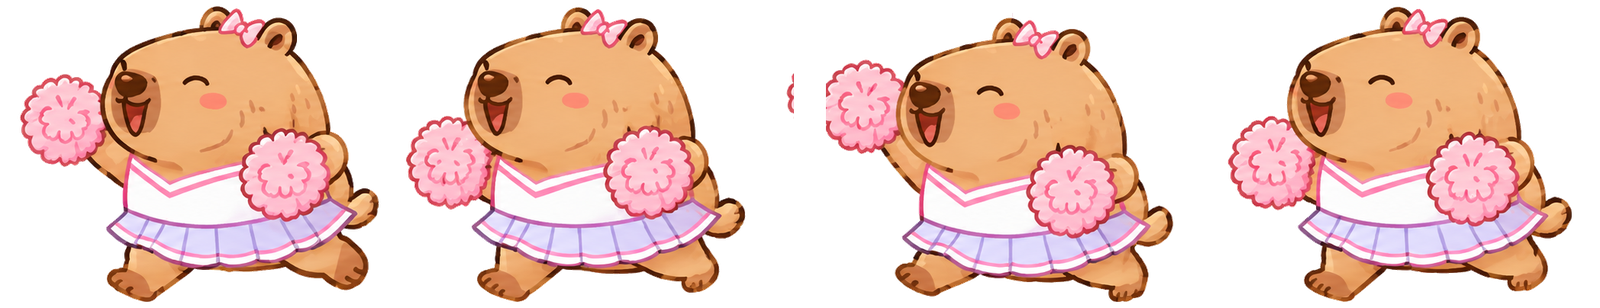
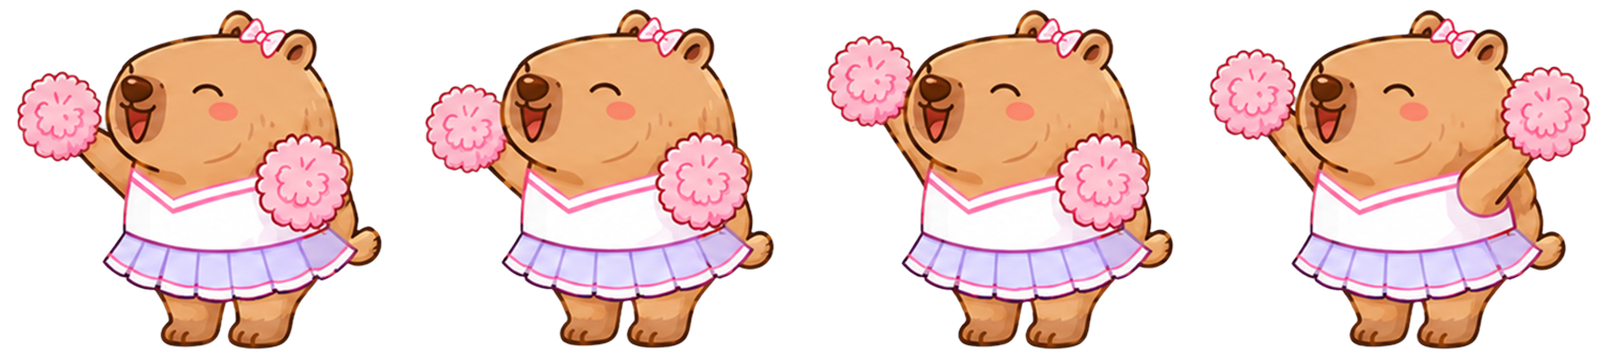
New cheerleader sprite matching the updated art style
Replaces the cheer strip with the new four-frame pom-pom dance in the
same style as the new sleeping/angry art. The export had real
transparency, so it was a straight alpha-bbox cut into uniform
400x358 frames (~520 KB). This version faces LEFT natively (the old
one ran right), so SHEETS.cheering.facesRight flips to false and the
cursor-facing logic keeps working unchanged.

diff --git a/src/Capybara.tsx b/src/Capybara.tsx
@@ -22,7 +22,7 @@ export const CAPY_ASPECT = CAPY_SRC_W / CAPY_SRC_H;
 // of the art so flipX can be normalized.
 const SHEETS = {
   walking: { img: capyWalkImg, frames: 4, w: 400, h: 307, facesRight: false },
-  cheering: { img: capyCheerImg, frames: 4, w: 400, h: 308, facesRight: true },
+  cheering: { img: capyCheerImg, frames: 4, w: 400, h: 358, facesRight: false },
 } as const;
 
 export const CAPY_WALK_ASPECT = SHEETS.walking.w / SHEETS.walking.h;